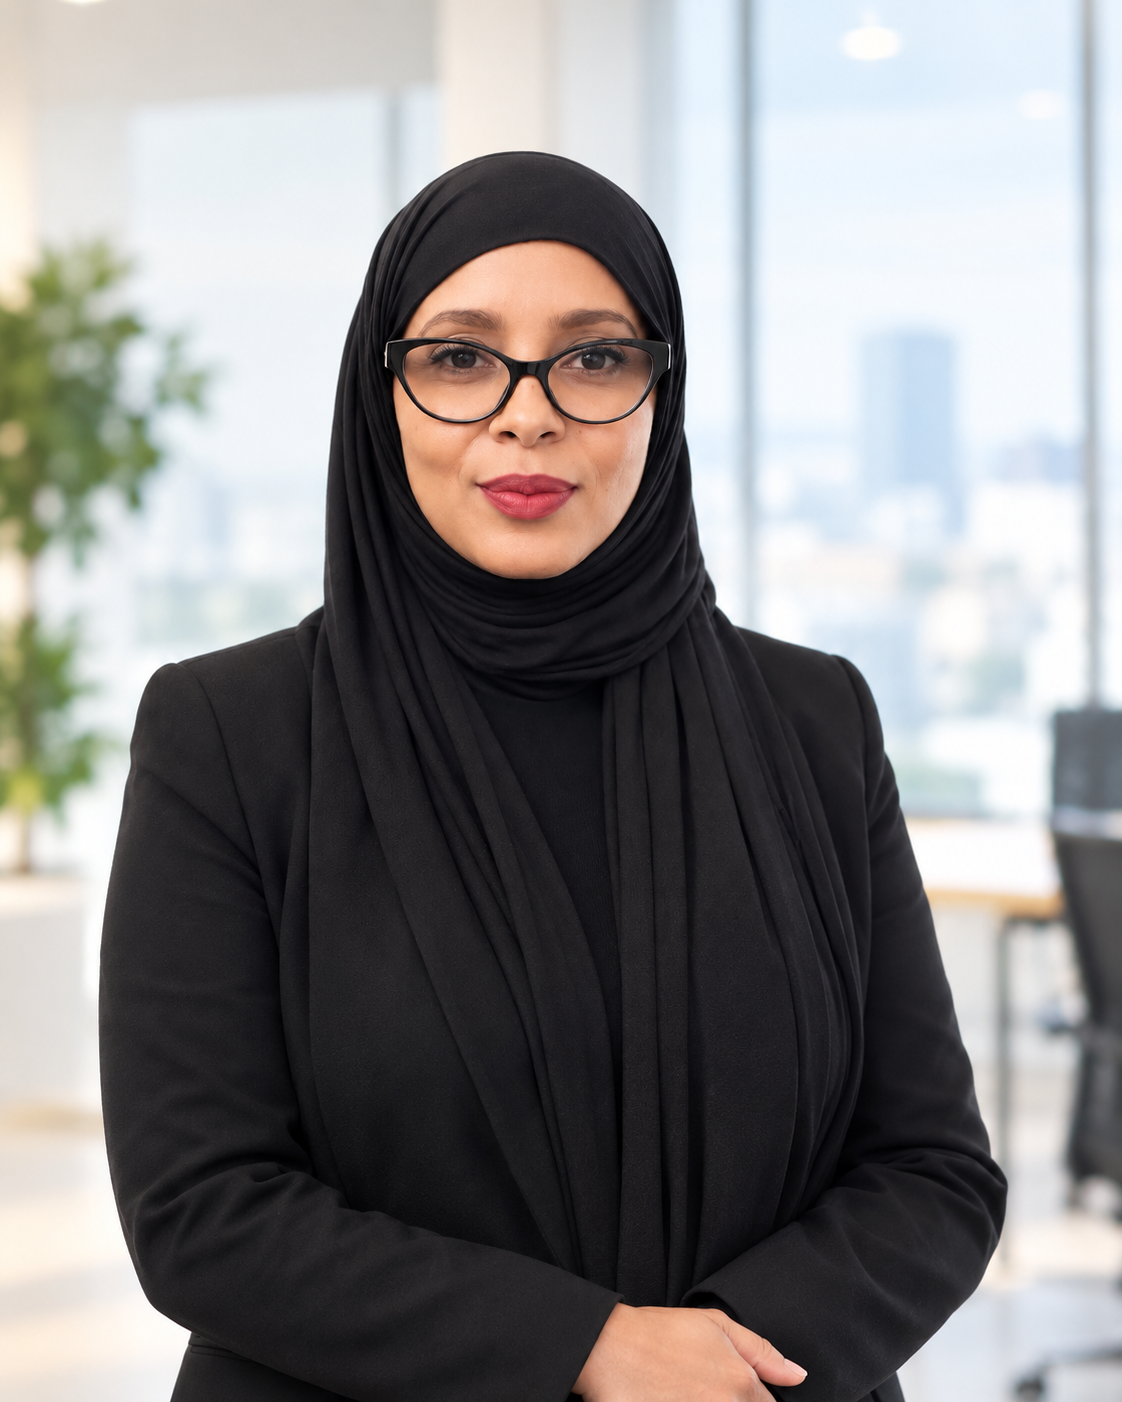
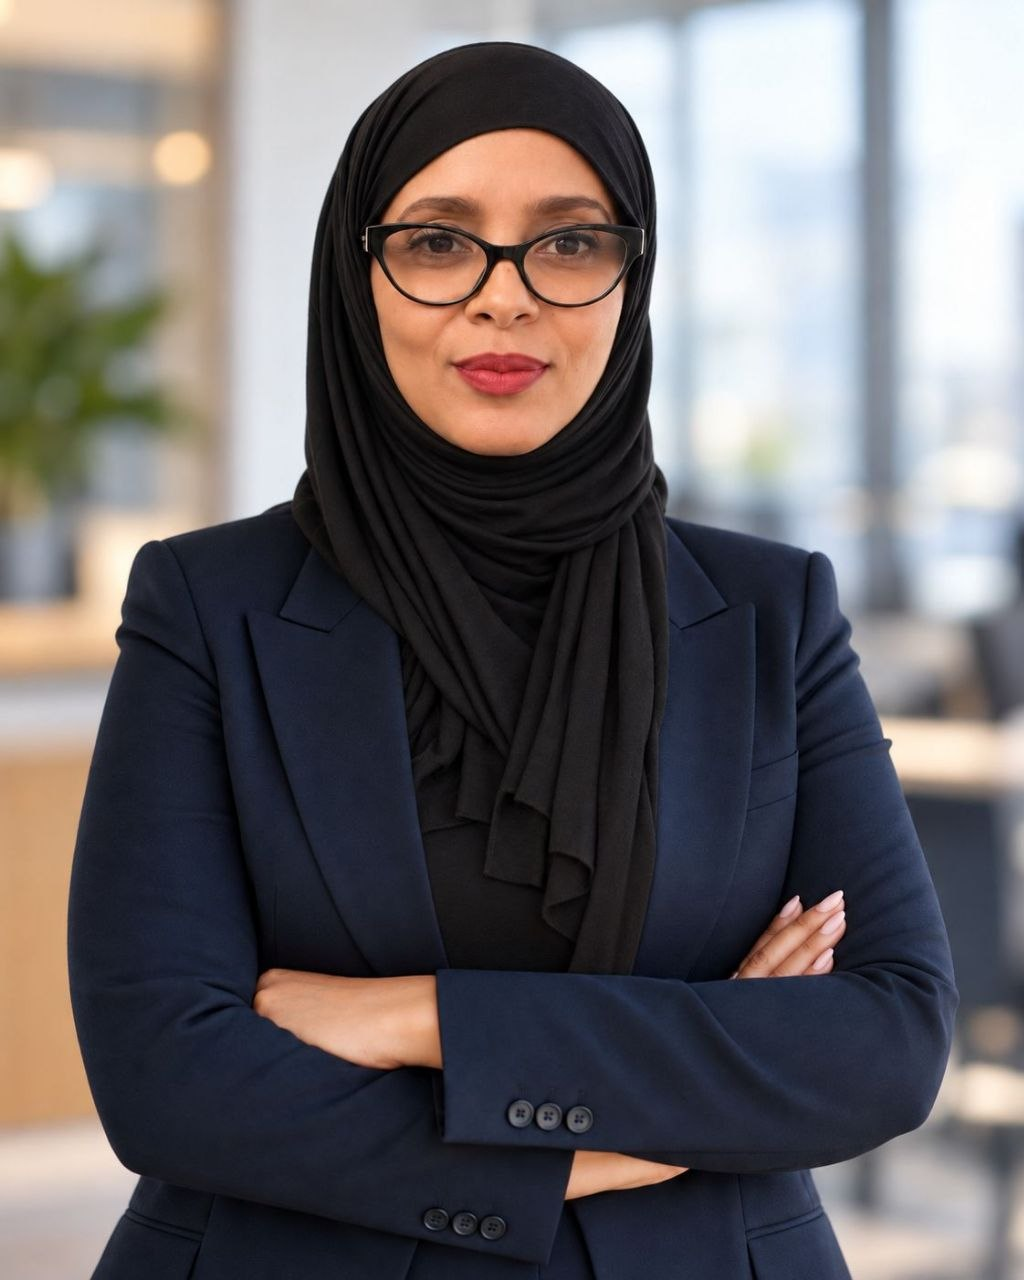
Responsive design, Images Added

diff --git a/public/css/main.css b/public/css/main.css
@@ -17030,3 +17030,67 @@ button {
     .ms-photo img { transition: none; }
     .ms-photo:hover img, .ms-photo:focus-visible img { transform: none; }
 }
+
+/* =====================================================
+   HOMEPAGE HERO — phones: counter, progress line and arrows on one row,
+   arrows square and evenly sized, clear of the chat launcher
+===================================================== */
+@media (max-width: 600px) {
+    .homepage-hero .hero-controls {
+        grid-template-columns: auto minmax(0, 1fr) auto;
+        gap: 14px;
+        padding-right: 68px;
+    }
+    .homepage-hero .slide-counter  { grid-area: 1 / 1; }
+    .homepage-hero .slide-progress { grid-area: 1 / 2; min-width: 0; }
+    .homepage-hero .slide-arrows {
+        position: static;
+        grid-area: 1 / 3;
+        display: flex;
+        gap: 8px;
+    }
+    .homepage-hero .slide-arrow {
+        width: 40px;
+        height: 40px;
+        flex: none;
+        padding: 0;
+        display: grid;
+        place-items: center;
+        font-size: 18px;
+        line-height: 1;
+    }
+    .homepage-hero .hero-link { width: fit-content; }
+}
+
+/* HOMEPAGE HERO — phones: copy sits closer together */
+@media (max-width: 600px) {
+    .homepage-hero .hero-category { margin-bottom: 16px; }
+    .homepage-hero .hero-content p { margin-top: 16px; }
+    .homepage-hero .hero-link { margin-top: 22px; }
+}
+
+/* FEATURED BRANDS — phones: the panel column follows the screen width
+   (it was sized to its content and ran off narrow screens) */
+@media (max-width: 900px) {
+    .brands .bp { grid-template-columns: minmax(0, 1fr); }
+    .brands .bp > *, .brands .gallery, .brands .bp-copy, .brands .gallery-bar { min-width: 0; max-width: 100%; }
+    .brands .gallery-bar .prog { min-width: 0; flex: 1 1 auto; }
+}
+@media (max-width: 420px) {
+    .brands .gallery-bar { flex-wrap: wrap; row-gap: 10px; }
+    .brands .gallery-bar .gallery-cap { flex: 1 0 100%; }
+    .brands .gallery-bar .arrows { margin-left: auto; flex: none; }
+}
+
+/* HOMEPAGE — phones: comfortable tap targets for small text links */
+@media (max-width: 600px) {
+    .bp-loc-phone,
+    .ctc a[href^="tel:"],
+    .ctc a[href^="mailto:"],
+    .ftr a {
+        display: inline-flex;
+        align-items: center;
+        min-height: 40px;
+    }
+    .find-us-section .leaflet-touch .leaflet-bar a { width: 40px; height: 40px; line-height: 40px; }
+}

diff --git a/config/businesses.php b/config/businesses.php
@@ -384,7 +384,7 @@ return [
             'menu'       => 'Jaquar World Addis Ababa',
             'group'      => 'other',
             'theme'      => 'jaguar',   // white-dominant, small blue (see .bz-theme--jaguar)
-            'kicker'     => 'Launched 2017 with Jaquar Group',
+            'kicker'     => 'The Only Premier Partner with Jaquar Group',
             'intro'      => 'The complete bathroom and lighting solutions destination in Addis Ababa.',
             'badge'      => ['value' => '2017', 'label' => 'Launched With Jaquar Group'],
             'image'      => 'images/jaquar/vanity-round-mirror.webp',

diff --git a/resources/views/partials/brands-tabs.blade.php b/resources/views/partials/brands-tabs.blade.php
@@ -143,7 +143,7 @@
         'jaquar' => [
             'name'      => 'Jaquar World',
             'tone'      => 'light',
-            'kicker'    => 'Launched 2017 with Jaquar Group',
+            'kicker'    => 'The Only Premier Partner with Jaquar Group',
             'title'     => 'The Complete Bathroom & Lighting Solutions Destination',
             'body'      => 'Faucets, shower systems, sanitaryware, smart toilets, jacuzzi baths and architectural lighting, from Artize luxury to Jaquar Premium.',
             'list'      => ['label' => 'Brands', 'items' => ['Jaquar Premium']],

diff --git a/resources/lang/en/home.php b/resources/lang/en/home.php
@@ -158,7 +158,7 @@ return [
     'brand_imports_slide_1_cap' => 'Distribution',
 
     // Jaquar World
-    'brand_jaquar_kicker'      => 'Launched 2017 with Jaquar Group',
+    'brand_jaquar_kicker'      => 'The Only Premier Partner with Jaquar Group',
     'brand_jaquar_title'       => 'The Complete Bathroom and Lighting Solutions Destination',
     'brand_jaquar_body'        => 'Faucets, shower systems, sanitaryware, smart toilets, jacuzzi baths and architectural lighting, from Artize luxury to Jaquar Premium.',
     'brand_jaquar_list_lbl'    => 'Brands',
